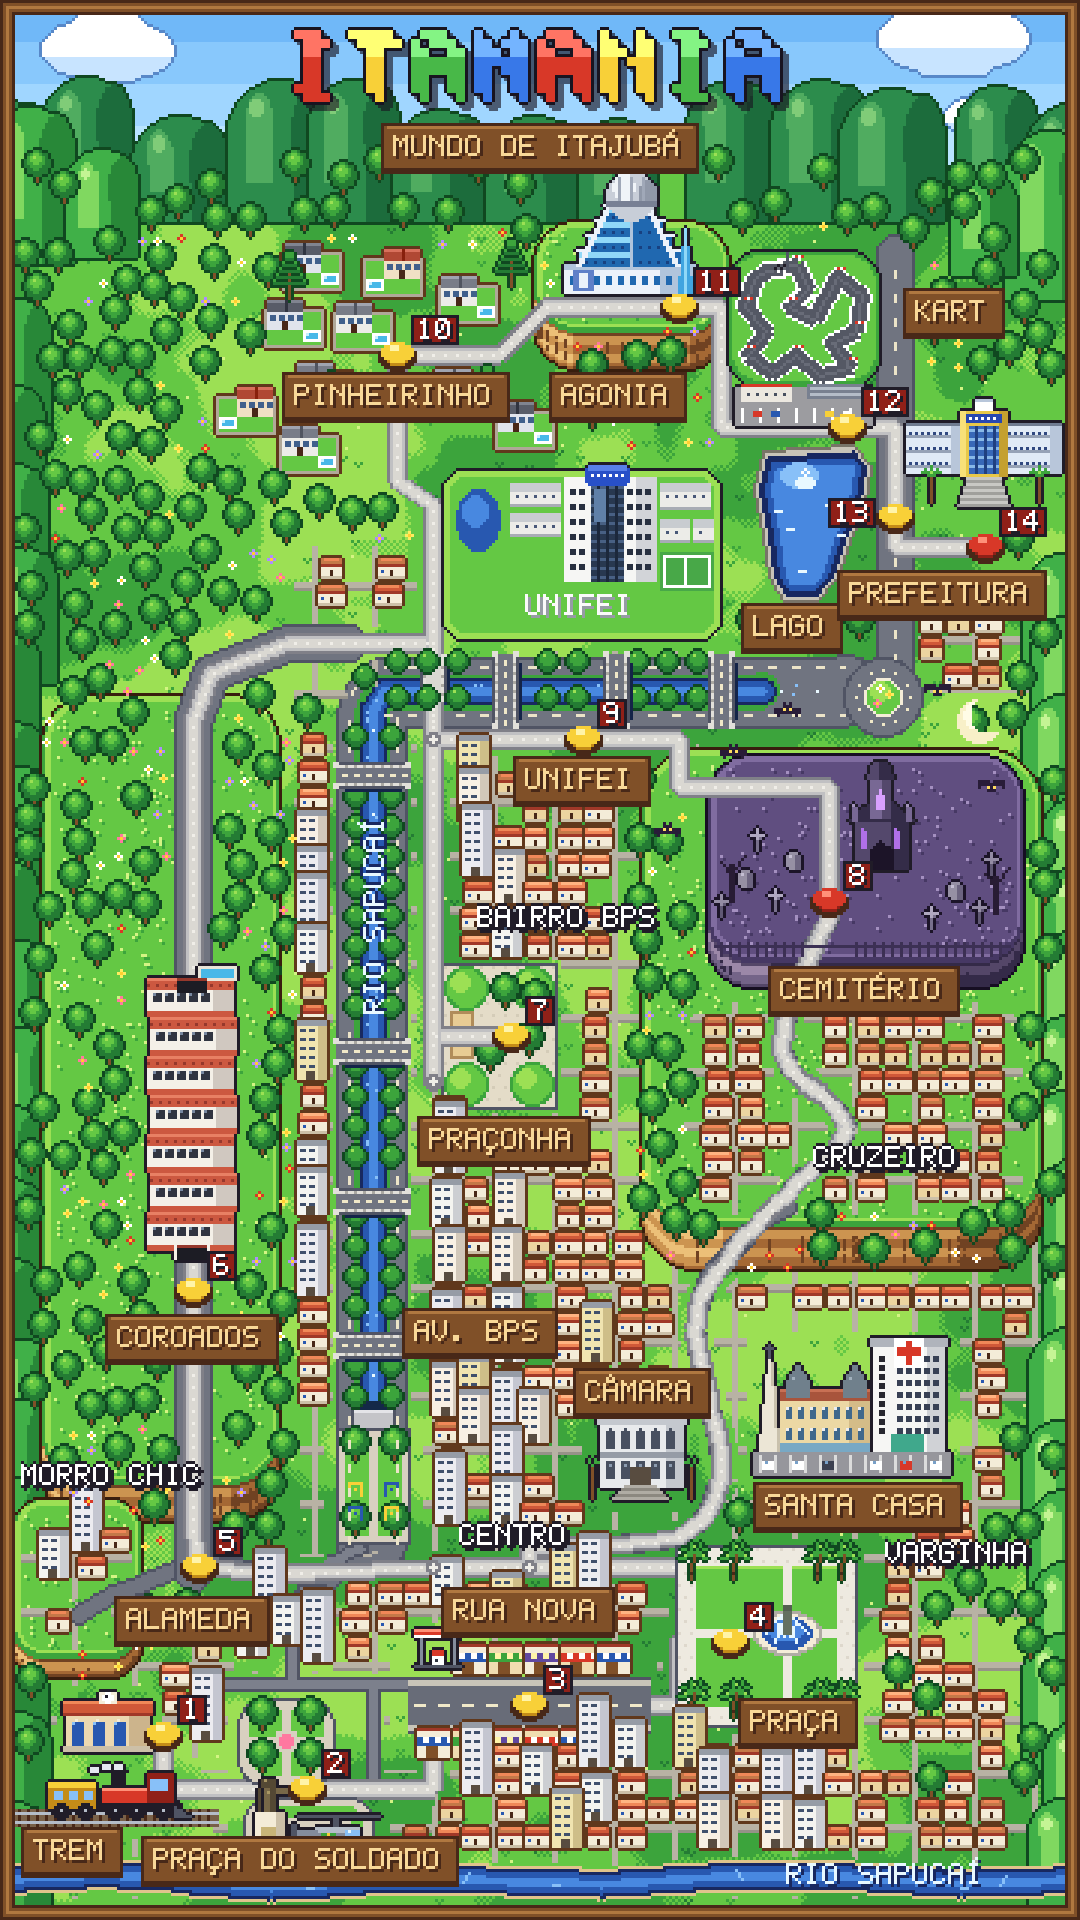
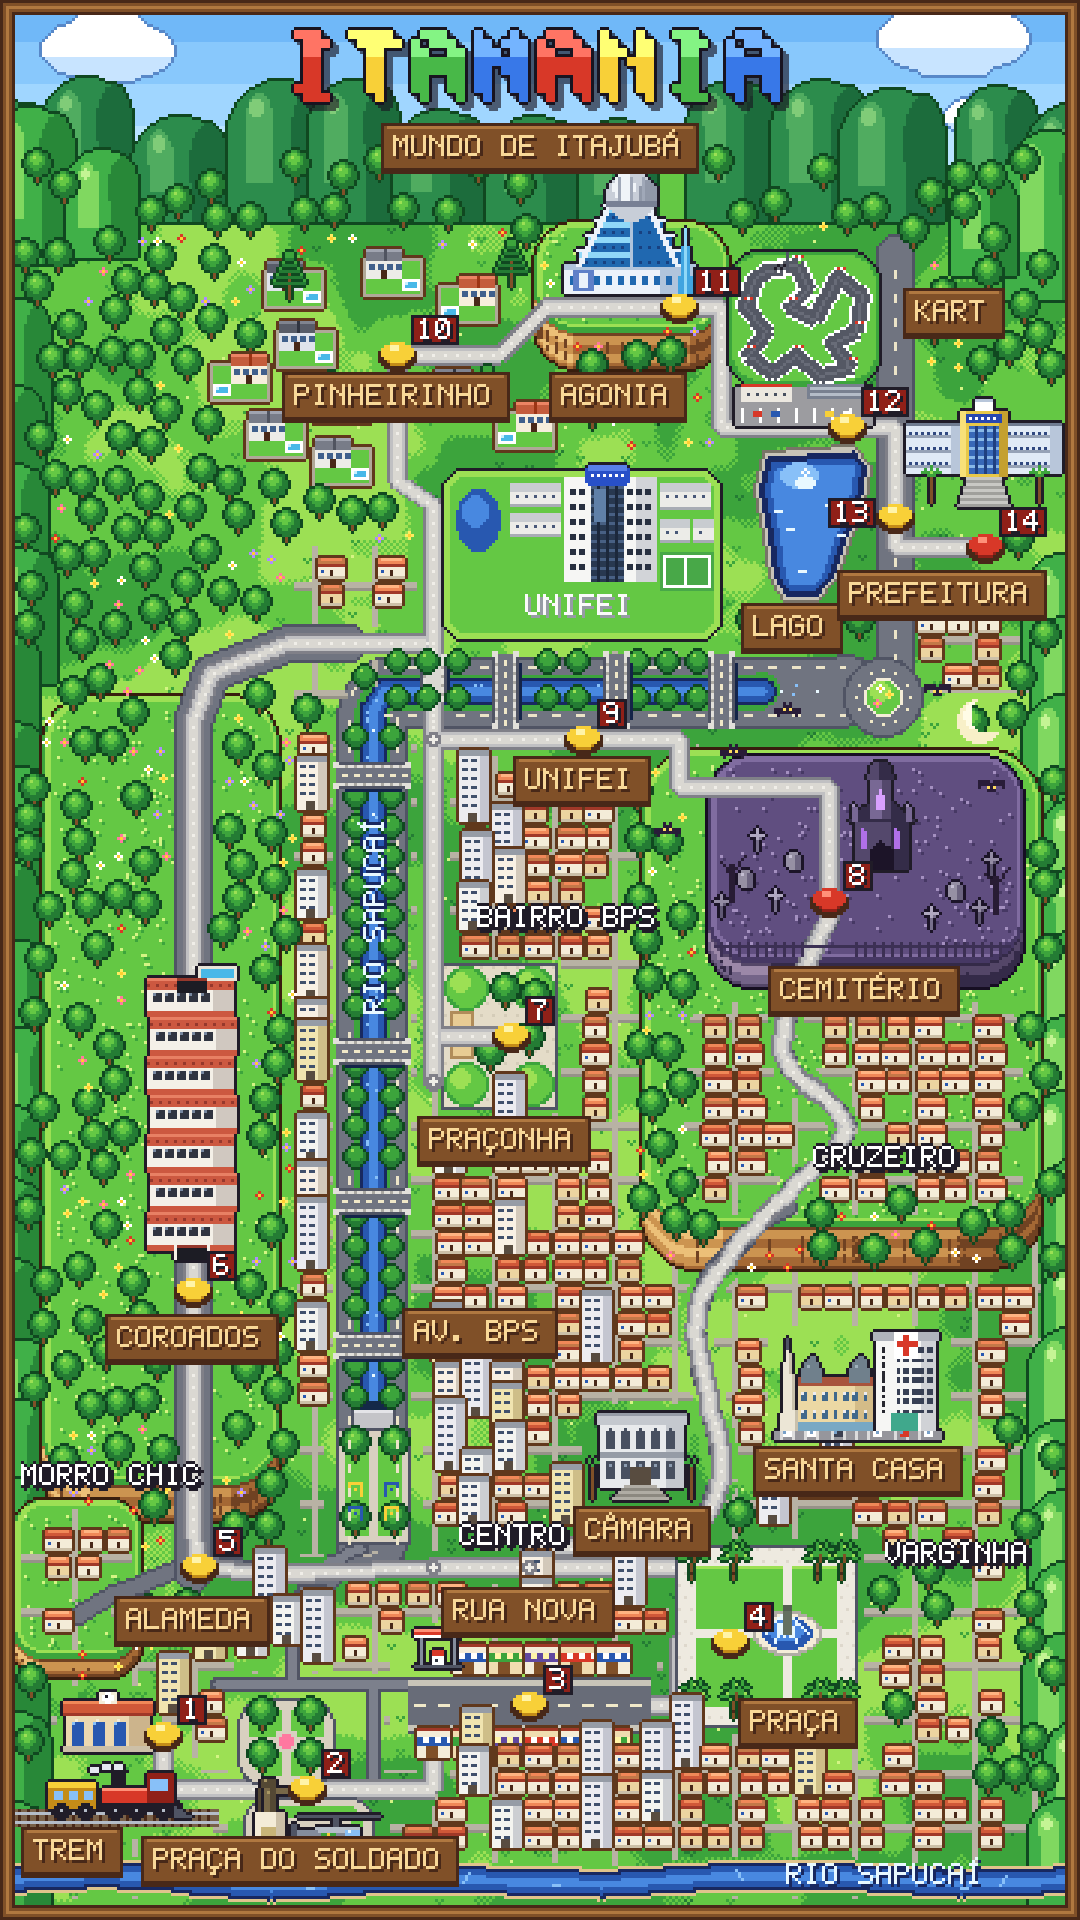
Mapa do Itamania: placa da Câmara embaixo do prédio, Santa Casa menor e mais alta
Claude-Session: https://claude.ai/code/session_01PQYRHDQbqQUf94eH7bEkMV

diff --git a/ferramentas/mapa-mundi/gerar_mapa.py b/ferramentas/mapa-mundi/gerar_mapa.py
@@ -1269,14 +1269,14 @@ def m_santa_casa():
     """Santa Casa de Itajubá (foto do Pedro, 04/11/2026): prédio alto branco com o letreiro vertical e a cruz de
     hospital, casarão antigo creme com cúpulas e telhado de barro à esquerda, torre fina da capela e o
     estacionamento na frente."""
-    s, d = spr(66, 46)
-    # estacionamento
-    ret(d, 0, 38, 65, 45, (150, 150, 156))
+    s, d = spr(66, 42)
+    # estacionamento (mais curto)
+    ret(d, 0, 38, 65, 41, (150, 150, 156))
     for x in range(2, 64, 5):
-        ret(d, x, 39, x, 44, (220, 220, 220))
+        ret(d, x, 38, x, 41, (220, 220, 220))
     for x, c in [(4, C['br']), (14, C['br']), (24, (60, 64, 80)), (40, C['br']), (50, C['vm']), (60, C['br'])]:
-        ret(d, x - 1, 41, x + 2, 43, c)
-        px(d, x, 41, (120, 160, 200))
+        ret(d, x - 1, 39, x + 2, 40, c)
+        px(d, x, 39, (120, 160, 200))
     # torre fina da capela (esquerda)
     d.polygon([(2, 37), (5, 6), (8, 37)], fill=rgba((236, 230, 214)))
     d.line([(6, 8), (8, 37)], fill=rgba((200, 192, 172)))
@@ -1312,7 +1312,7 @@ def m_santa_casa():
     d.rectangle([47, -6 + 6, 56, 3 + 6], fill=rgba(C['br']))
     ret(d, 51, 1, 52, 8, C['vm'])
     ret(d, 48, 3, 55, 5, C['vm'])
-    return s
+    return s.resize((56, 36), Image.NEAREST)
 
 
 def m_camara():
@@ -1669,7 +1669,7 @@ def main():
         ('kart', m_kart_pista(), (268, 142)),
         ('agonia', m_agonia_santuario(), (210, 98)),
         ('capela', m_capela_gotica(), (294, 290)),
-        ('santacasa', m_santa_casa(), (284, 492)),
+        ('santacasa', m_santa_casa(), (286, 480)),
         ('camara', m_camara(), (214, 500)),
         ('estacao', m_estacao(), (36, 584)),
         ('trem', m_locomotiva(), (40, 606)),
@@ -2033,7 +2033,7 @@ def main():
         ('TREM', 24, 609), ('PRAÇA DO SOLDADO', 100, 612), ('RUA NOVA', 176, 529), ('PRAÇA', 266, 566),
         ('ALAMEDA', 64, 532), ('COROADOS', 64, 438), ('PRAÇONHA', 168, 372), ('CEMITÉRIO', 288, 322),
         ('UNIFEI', 194, 252), ('PINHEIRINHO', 132, 124), ('AGONIA', 206, 124), ('KART', 318, 96),
-        ('LAGO', 264, 201), ('PREFEITURA', 314, 190), ('AV. BPS', 160, 436), ('CÂMARA', 214, 456), ('SANTA CASA', 286, 494),
+        ('LAGO', 264, 201), ('PREFEITURA', 314, 190), ('AV. BPS', 160, 436), ('CÂMARA', 214, 502), ('SANTA CASA', 286, 482),
     ]
     for txt, x, y in PLACAS:
         w = len(txt) * 6 + 10
